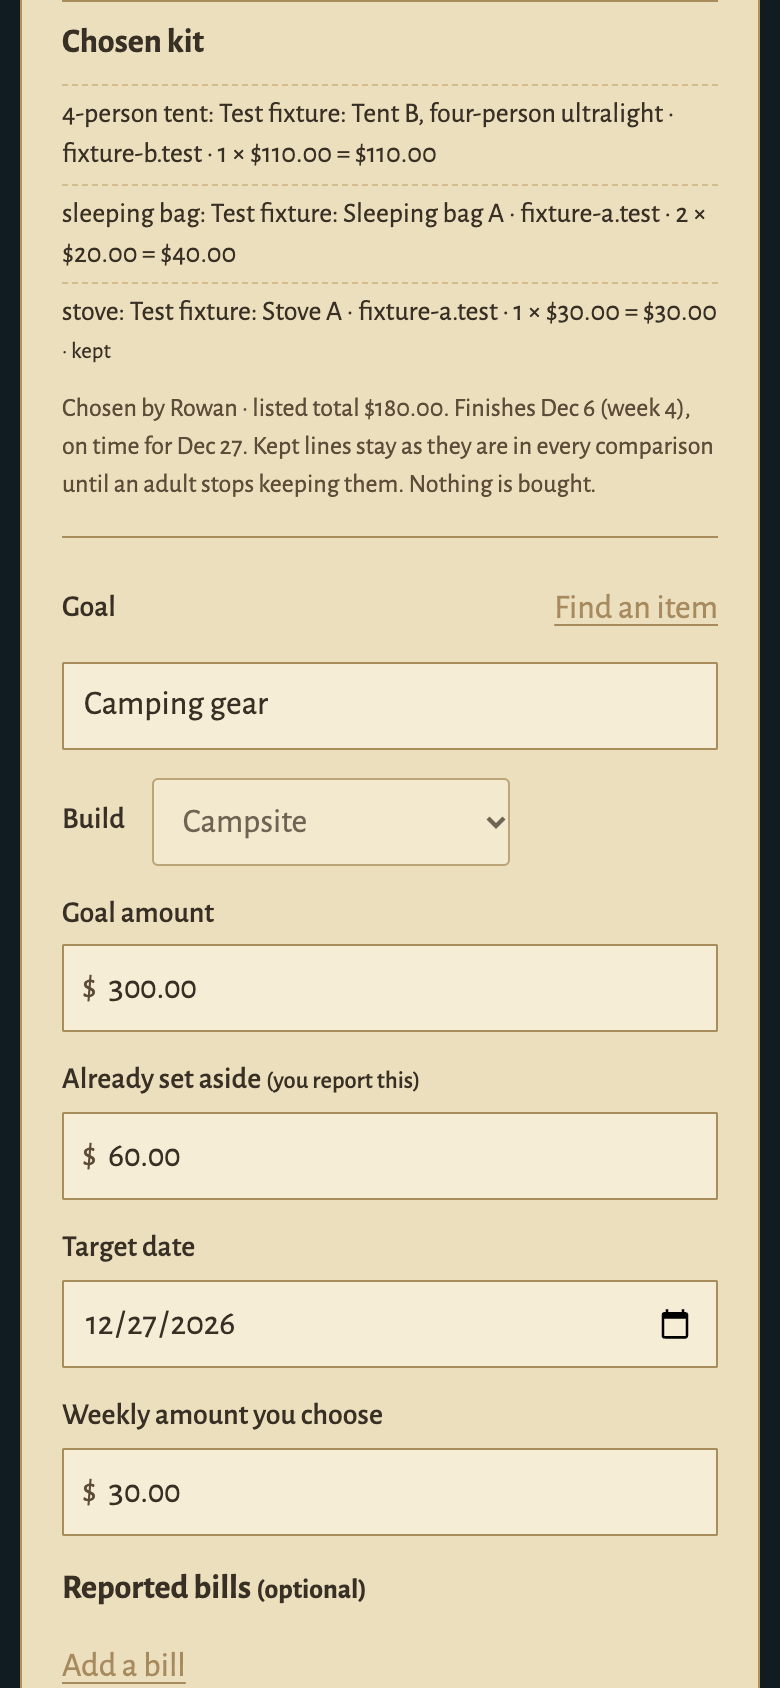
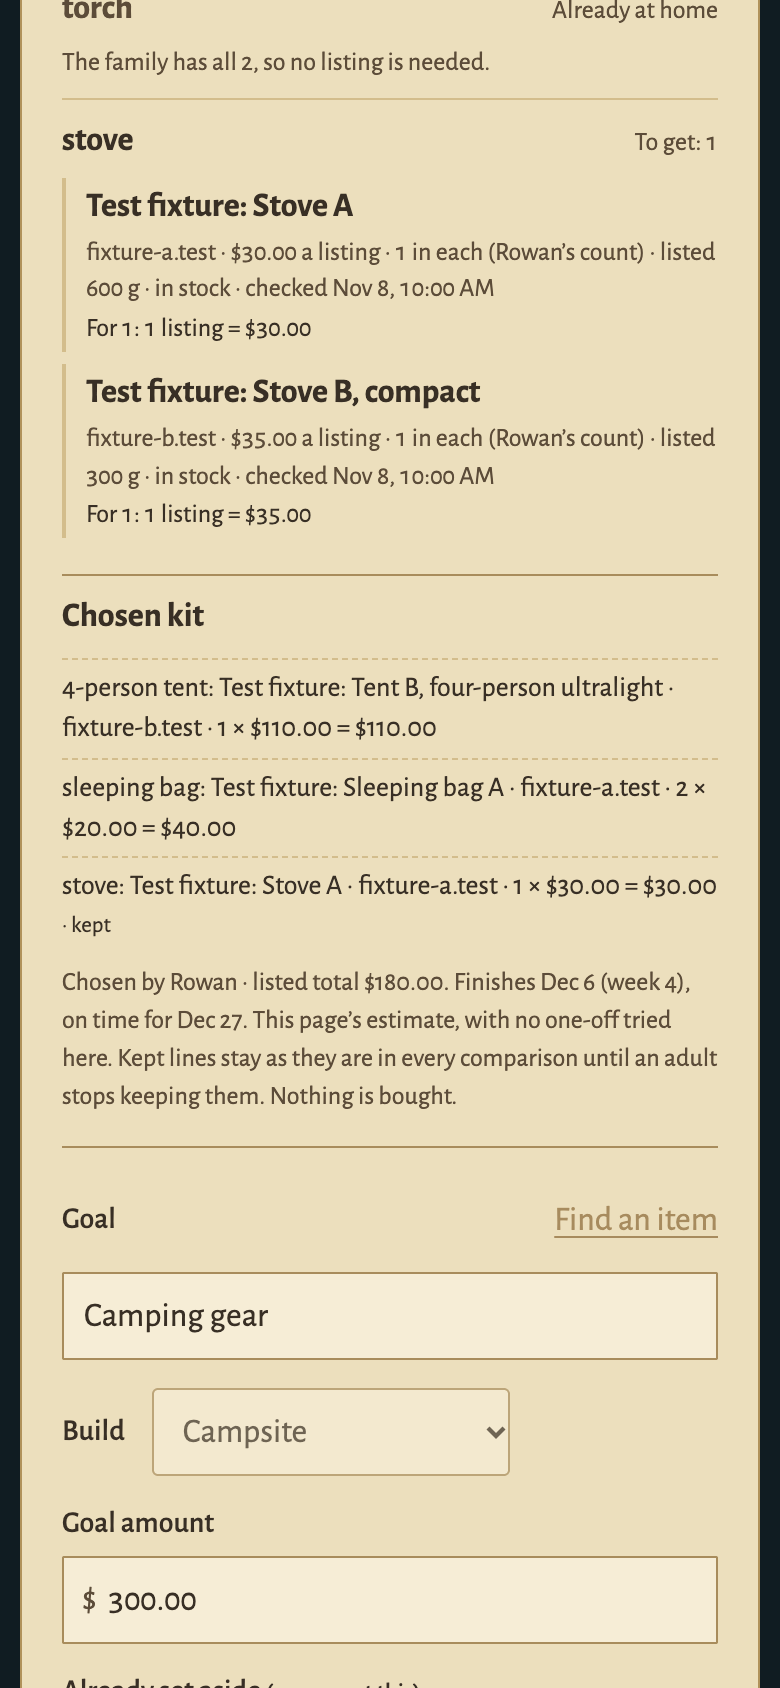
Record kit planner review correction 001: before and after, the reframed screenshot and limits
- docs/VALIDATION.md: what R1-R5 were and what changed, the before run on 1dfca06's
  production code (36 tests, 23 passed, 13 failed on Node 22.16.0 and 26.0.0) and the
  after run on exactly 39833fe (36/36 on both, guard, browser 2/2). Also what was not
  run, and the limits.
- docs/KIT-PLANNER.md: titles and shops only to Cohere, empty and partial rankings, the
  checks before and after Cohere, the solver's standard-error bound, and the chosen kit's
  date as this page's estimate.
- docs/screenshots: Wren's chosen kit is recaptured on 39833fe, centred in the phone frame,
  by a capture-only copy of the 39833fe journey spec. The first, top-aligned recapture is
  recorded as superseded. The three images whose views did not change keep their dfcfa7a
  stamps; the final run on 39833fe captured each of them byte-identical.

diff --git a/docs/VALIDATION.md b/docs/VALIDATION.md
@@ -1,5 +1,80 @@
 # Validation
 
+## Complete kits: review correction 001 — November 9, 2026
+
+Codex's review of `1dfca06` (PR #58) reproduced five production defects, R1–R5, in the complete-kit planner. Commits on the same branch:
+- `39833fe`: the five fixes, the chosen-kit wording, and a regression for each;
+- the commit after it: these notes, the reframed screenshot and its provenance.
+
+**What was wrong, and what changed:**
+- **R1. Ordering went on after access or the facts changed.** `/api/kit/prefer` waited for the solver, then went on to the quota and Cohere without checking again. In the root probe, a member signed out while the solver was held: the request ended 401, but the fake ranker was still called once.
+  - The route now checks the session, and the family's kit and figures, as soon as the solver answers.
+  - That check comes before any answer (including "nothing to order"), the minute's quota and any Cohere call.
+- **R2. A failed ordering came back for old figures.** When Cohere failed after the figures changed, the route returned 200 with the old revision. A failure is now shown with the kits only while they are still current; otherwise it is refused (`kit_plan_changed`), like a late success.
+- **R3. An empty ranking was reported as a match.** `readRanking` appended every kit Cohere left out, so a reply that ranked nothing still labelled a match.
+  - It now returns only the kits Cohere ranked. A reply that ranks none is a failure (`kit_rank_empty`), with no match.
+  - A reply that ranks some still names Cohere's first choice. The answer says how many it ranked of how many were sent (`ordered`, `sent`), and the page then says "Cohere ordered 1 of the 5 lowest-total kits…". The sentence for a complete ranking is unchanged.
+- **R4. Standard error was unbounded.** `SOLVER_LIMITS.maxErrorBytes` (4 KiB) was declared but not enforced: a program that wrote 4,097 bytes, then a valid answer, was accepted.
+  - Standard error is now counted and discarded. Past the bound the program is stopped and its answer refused (`kit_solver_failed`). Nothing it wrote is kept or logged.
+  - The time limit, cancellation and the two-at-once limit are unchanged.
+- **R5. Counts were sent to Cohere.** Each kit description began with the family's listing count ("1 × …", "20 × …"). Descriptions are now public titles and shops only; the counts stay in the solver and on the family's page.
+- **The chosen kit's date** (Codex's clarity point). Wren saw the chosen $180 kit finish Dec 6; Rowan, trying a private $90 one-off, saw Dec 27.
+  - The note now ends "This page’s estimate, with no one-off tried here." or "…, after the one-off $90.00 tried here."
+  - A child tries none and never sees an adult's trial. The financial arithmetic is unchanged.
+
+**Before:** the new tests ran on `1dfca06`'s production code, with an empty production diff. The three kit unit files ran **36 tests: 23 passed and 13 failed**, on both Node 22.16.0 and 26.0.0. The failures reproduced each finding:
+- **R1:**
+  - a stale "nothing to order" answer came back 200, with the old revision;
+  - a stale ordering, and a signed-out member's, each made one Cohere call;
+  - those two calls used up quota, so a current request was refused as busy at its fifth ordering.
+- **R2:** a Cohere failure after Ash changed an offer returned 200, with the old revision.
+- **R3:** an empty reply came back `ok`, with five ordered and the lowest-total kit labelled the match. The adapter also padded a partial reply with unranked kits.
+- **R4:** the 4,097-byte program's answer was accepted.
+- **R5:** the documents began "1 × …" and "2 × …". The test of one listing against twenty showed descriptions that differed only by the count.
+
+The two R2 cases that already held on `1dfca06` passed: a late success is refused, and a failure for current figures keeps the kits.
+
+**After, on exactly `39833fe`.** Every check used fake catalog and Cohere transports, invented data and disposable databases, with `.env` loading off and non-loopback transport denied. `KIT_SOLVER_REQUIRED=1` required the compiled solver; its sources are unchanged since `dfcfa7a`, and the binary's sha256 is `79feaabe…`.
+- **Unit:** `kit-solver`, `kit-planner` and `kit-rerank` passed **36/36 on Node 22.16.0 and 26.0.0** (29 tests and 7 subtests).
+  - Six development runs on Node 26 also passed 36/36. They ran before one test fixture's text was updated to the new description format.
+  - In all eight runs, the whole standard-error test took 0.44–0.65 seconds. Its last program would otherwise have waited out the 4-second limit.
+- **Browser:** the kit journey passed **2/2**, on desktop 1440×1000 and the 390×844 phone. It now also checks:
+  - that no Cohere document carries a count or other figure;
+  - the sentence for a complete ranking;
+  - Rowan's and Wren's page estimates;
+  - that Wren's page never shows $90.00.
+- **Guard:** `npm run check` passed (47 copied art/runtime files, the 90-colour palette, renderer wiring and syntax).
+
+**Screenshots** (provenance in `docs/screenshots/kit-planner-sources.json`):
+- **Unchanged:** `kit-planner-desktop-kits-compared.png`, `kit-planner-desktop-smallest-change.png` and `kit-planner-phone-listings.png` keep their `dfcfa7a` stamps. The final run on `39833fe` captured each of these views byte-identical, and none shows changed copy.
+  - Of that run's ten captures, six were byte-identical to `dfcfa7a`'s.
+  - The other four are uncommitted: the two child views show the new note, and the two goal drafts differ only inside the journal panel, with the same text.
+- **Replaced:** `kit-planner-phone-child-chosen.png` (`c65f1c34b9b6`) is stamped on `39833fe`. It shows Wren's read-only chosen kit, centred, ending "This page’s estimate, with no one-off tried here."
+  - The first recapture (`d728b32fb775`, from the final run) was top-aligned: the frame began at the kit's top rule, and two thirds of it was the goal form. The review read it as starting below the heading, so it was replaced. It is kept locally.
+  - The replacement came from a capture-only copy of the `39833fe` journey spec. It ran on the phone from the worktree, with every tracked source identical to `39833fe`, and passed (1 test).
+  - The copy differs only in its import paths, capture folder and centred framing. Its hash and diff are recorded.
+- **Not used:** in that run, the listings view was captured at a later scroll position, with focus back on "Add a listing for stove" after the Market Town dialog closed. The committed listings image is unchanged.
+
+**Not run locally:**
+- the full unit suite;
+- the 50 existing browser specs, green on `dfcfa7a` (this correction changes only kit files);
+- the Rust build and tests, since the solver sources are unchanged since `dfcfa7a`.
+
+The hosted Release checks run on the final head; the result is in the PR.
+
+**Limits:**
+- **Cohere:** every reply was invented by a fake transport. No live Cohere or Channel3 call was made, and no ranking quality was measured.
+- **Partial rankings:** the "1 of the 5" sentence is covered only through the server's answer in a unit test, not in a browser.
+- **Capture timing:** the listings capture helper can race with returning focus. This affects evidence framing only; no test failed.
+- **Not covered:** human, physical-device, accessibility-audit or performance evidence.
+
+**Evidence:** kept local and ignored, in `test-results/kit-planner-20261109/corrections-019/`:
+- `before/` and `dev/`;
+- `final-39833fe/`: unit, guard and browser logs, and captures;
+- `reframe-39833fe/`: the capture-only copy, its diff, config, log and captures;
+- `superseded/`;
+- the two provenance scripts, with `SHA256SUMS.txt`.
+
 ## Complete kits for the kit list — November 9, 2026
 
 Branch `claude/kit-planner`, from the reviewed PR #57 head `11fc98d` (unmerged, stacked on #56 → … → #49). Commits:
@@ -63,7 +138,7 @@ The owner asked for this product feature (task 019), after 018's reviewed kit li
 - `kit-planner-desktop-kits-compared.png` (`e8f4bf9db42d`): two kits that fit after the $90 one-off, the $180 one also the preference match;
 - `kit-planner-desktop-smallest-change.png` (`d20c65343f0b`): after the $120 one-off, the repair that switches only the tent, with the kept stove;
 - `kit-planner-phone-listings.png` (`25eb6cdc2920`): the listings for each item, with the adult's count per listing;
-- `kit-planner-phone-child-chosen.png` (`98fefb953a3a`): the child's read-only chosen kit.
+- `kit-planner-phone-child-chosen.png` (`98fefb953a3a`): the child's read-only chosen kit. Replaced in review correction 001, above.
 
 **Limits:**
 - **Pool, not market:** exact only within the listings an adult added (at most three per item). Prices, stock and weights are as the catalog last reported them.

diff --git a/docs/KIT-PLANNER.md b/docs/KIT-PLANNER.md
@@ -22,12 +22,13 @@ It is planning only. It buys nothing, moves no money, reserves no price or stock
    - When no complete kit fits, the closest one is shown with what keeping it means (a later finish) and what keeping the date means (a shortfall).
    - When an item has no usable listing, the comparison names the item and shows no total. A missing item is never counted as zero.
 3. **Try a one-off amount** in Family choices: a shown comparison is recomputed for it, with no catalog or model call.
-4. **Order by a preference (optional).** When this server has Cohere set up, **Order with Cohere** orders the kits that fit by one preference from a fixed list (Lighter to carry, Sturdy and long-lasting, Simple to set up, Warm in cold weather). The best match is labelled, with Cohere's quoted match from the listing titles. It is a text match, not a check of quality, weight or price.
+4. **Order by a preference (optional).** When this server has Cohere set up, **Order with Cohere** orders the kits that fit by one preference from a fixed list (Lighter to carry, Sturdy and long-lasting, Simple to set up, Warm in cold weather). The best match is labelled, with Cohere's quoted match from the listing titles. It is a text match, not a check of quality, weight or price. When Cohere ranks none of the kits, or the ordering fails, the page says so and labels no match.
 5. **Choose and keep.** **Choose this kit** saves it as the family's chosen kit. **Keep** fixes one of its lines.
    - Later comparisons hold kept lines as they are.
    - When the chosen kit no longer fits (say, a larger one-off), the **smallest change** comes first: the kit that fits with the fewest switched lines.
    - Each switched line is explained: which listing replaces which, any change in the number of listings, and the line's price before and after.
    - A kept line is never switched, and a kept listing cannot be removed until an adult stops keeping it.
+   - The chosen kit's finish date is **this page's estimate**: the family's saved figures, plus only the one-off tried on this page. A child tries none and never sees an adult's trial, so two pages can show different dates for the same kit.
 6. **Review and save.** **Review this kit** checks the chosen kit against fresh catalog answers and opens an unsaved goal draft in the Plan form, with the family schedule it would propose.
    - The draft holds the kit's listed total, the goal's date (or the later finish, shown as such) and the weekly amount.
    - **Save goal and propose this schedule** saves the goal, the kit as its source and the schedule proposal in one transaction.
@@ -41,7 +42,7 @@ Children read the listings, the chosen kit and what is kept. They cannot add, co
 
 | Listings for each item (390 px phone) | What a child sees (phone) |
 | --- | --- |
-| ![Listings added for the tent, sleeping bags and stove, each with the adult's count per listing and what the line needs](screenshots/kit-planner-phone-listings.png) | ![The chosen kit, read-only, with the kept stove](screenshots/kit-planner-phone-child-chosen.png) |
+| ![Listings added for the tent, sleeping bags and stove, each with the adult's count per listing and what the line needs](screenshots/kit-planner-phone-listings.png) | ![The chosen kit, read-only, with the kept stove and its finish as this page's estimate](screenshots/kit-planner-phone-child-chosen.png) |
 
 All captures use invented data: six test-fixture listings from two invented shops, a fake catalog, a fake Cohere order written into the test, and an invented family. [Provenance and hashes](screenshots/kit-planner-sources.json).
 
@@ -93,7 +94,8 @@ The smallest change follows the production-replanning example: a $160 kit with a
 - **Its boundary.** One JSON request on standard input (at most 64 KiB) and one JSON answer on standard output. It has no network, file, environment, identity or money authority, and sees only cents, counts, milligrams and opaque indices.
 - **How the server runs it** (`server/kit/solver.mjs`):
   - the program path is fixed under the app's root, with `shell: false`, an empty environment and a fixed working folder;
-  - a 2-second limit, at most two at once, bounded output, and cancellation;
+  - a 2-second limit, at most two at once, and cancellation;
+  - bounded output (64 KiB) and standard error (4 KiB). Standard error is counted and discarded, never kept or logged. A program that writes more is stopped then, and its answer, even a valid one, is refused;
   - every answer is checked against its request (`verifySolverAnswer`): each kit's listings, quantities, totals, weights, shops and fit are recomputed, kept lines must be unchanged, and the counts must agree.
   - The server then recomputes each shown kit's finish with the family's own arithmetic (`compareChoices`), and refuses any disagreement.
 - **The reference solver** (`src/core/kit-plan.js`) is a deliberately simple JavaScript enumeration, written independently.
@@ -113,10 +115,12 @@ The smallest change follows the production-replanning example: a $160 kit with a
   - `top_n`, `max_tokens_per_doc: 512`;
   - `relevant_spans` (one span, threshold 0.3).
   - Redirects are refused, there is a 10-second limit, the reply is bounded to 64 KiB, and nothing is retried.
-- **What is sent:** the kits that fit, as public listing titles and shop names only. Never names, members, offers, the one-off amount, dates, prices, the family's own list text or a photo.
+- **What is sent:** the kits that fit, as public listing titles and shop names only (`Test fixture: Tent A, four-person dome (fixture-a.test); …`). Never how many listings or items the family needs, names, members, offers, the one-off amount, dates, prices, weights, the family's own list text or a photo. The counts stay here, in the solver and on the family's page.
 - **Checked here.** Every result index is in range and appears once, and every score is a finite number in [0, 1].
   - A matched span must lie inside its document, in Unicode code points, end exclusive, as the reference states. The quoted match is cut on code points.
   - Anything else is refused whole. The kits stay as they were, and the page says the ordering did not work.
+  - Only kits Cohere ranked count. A reply that ranks none is a failure (`kit_rank_empty`) with no match. A reply that ranks some names Cohere's first choice and says so: "Cohere ordered 1 of the 5 lowest-total kits…".
+- **Checked again before and after Cohere.** Once the solver answers, the request must still have its session, and the family's kit and figures must be the ones compared. Otherwise it is refused before any answer (even "nothing to order"), before the minute's quota, and with no Cohere call. The same check runs after Cohere answers or fails, so neither an order nor a failure is shown for figures that changed meanwhile (`kit_plan_changed`).
 - **Limits on its role.** It can only order kits that already fit: it cannot add, remove or change a kit, price or date. A household may order at most six times a minute. The relevance score is not shown and is not confidence.
 
 ## Data and access
@@ -138,7 +142,7 @@ The smallest change follows the production-replanning example: a $160 kit with a
 
 ## Checks
 
-The checks used fake catalog and Cohere transports, invented data, disposable databases and family-mode servers, the compiled Rust solver, and non-loopback transport denied. [Validation](VALIDATION.md#complete-kits-for-the-kit-list--november-9-2026).
+The checks used fake catalog and Cohere transports, invented data, disposable databases and family-mode servers, the compiled Rust solver, and non-loopback transport denied. [Validation](VALIDATION.md#complete-kits-for-the-kit-list--november-9-2026) and its [review correction 001](VALIDATION.md#complete-kits-review-correction-001--november-9-2026).
 
 ## Limits
 
